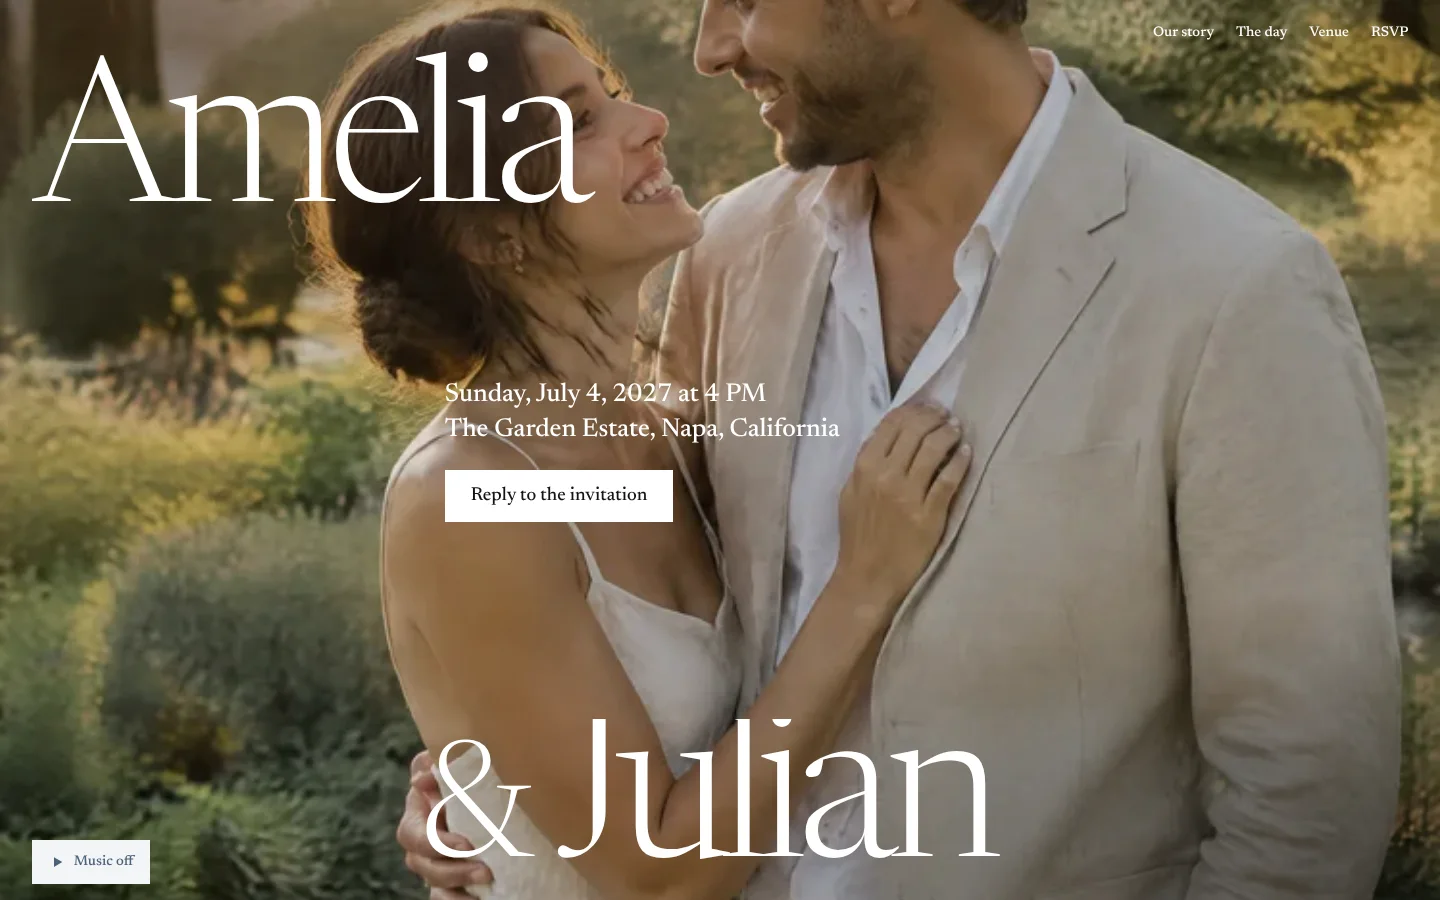
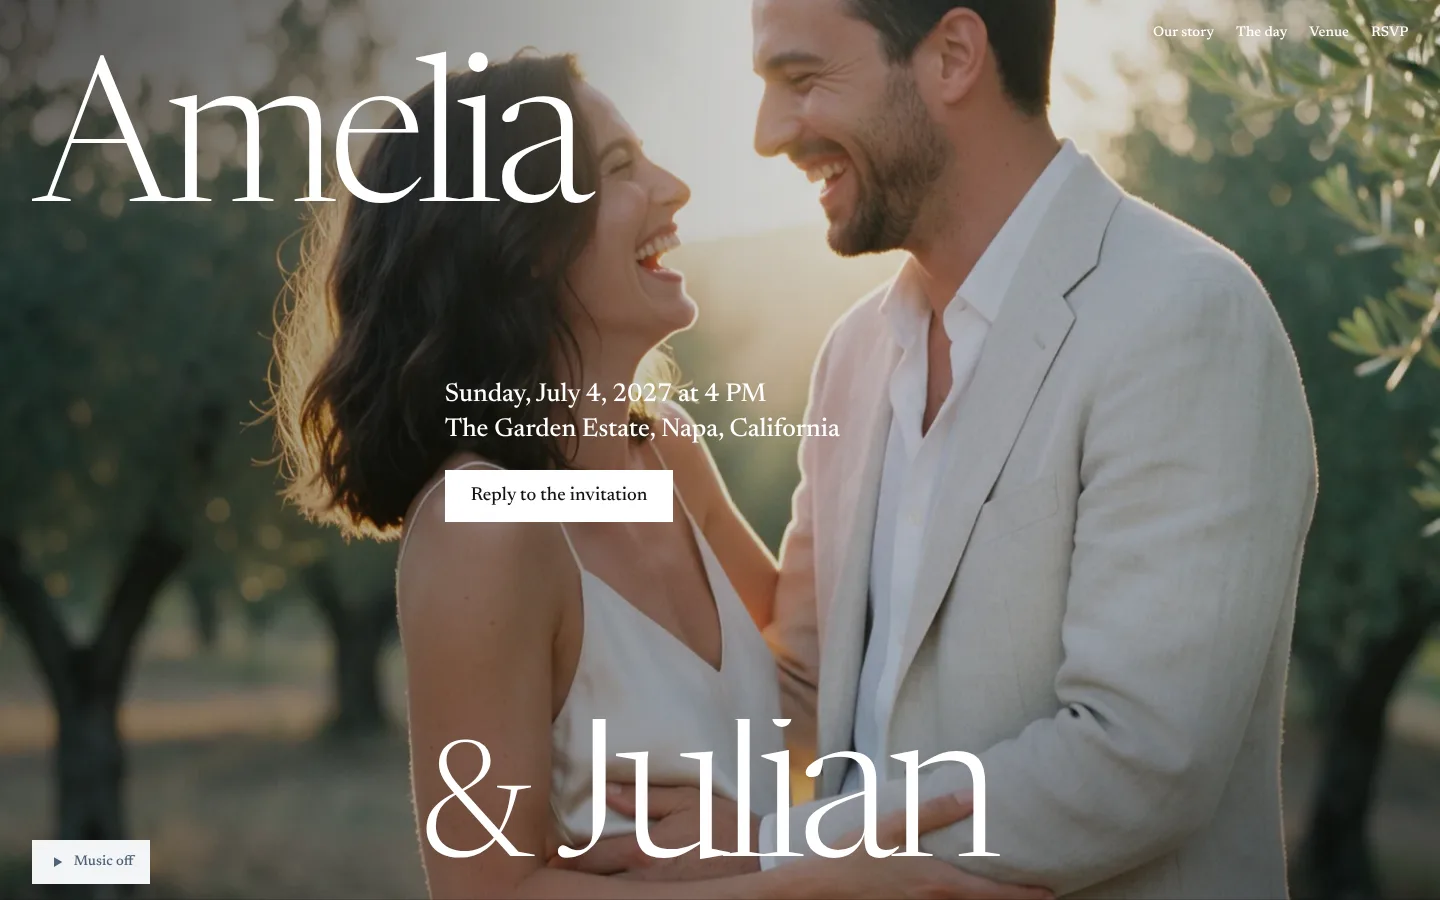
Seedream couple photos; fix story photos sliding over text on phones
- Demo couple photos regenerated with Seedream 5 Pro (2K, high), one couple
  across all five shots; landing fragments recaptured with them.
- The landing's @keyframes drift (translate -50%) overrode the invitation's
  photo drift of the same name, shoving story photos onto their captions.
  Keyframes are now prefixed (site-*, iv-*) and portraits clip to their box.

Claude-Session: https://claude.ai/code/session_016MinLwkREeyjyFu6AUwBRi

diff --git a/styles/site.css b/styles/site.css
@@ -73,8 +73,8 @@
 .live-box img { width: 100%; height: 100%; display: block; }
 .live-initials { position: absolute; inset: 0; width: 100%; height: 100%; overflow: visible; }
 .live-initials text { font-family: inherit; font-weight: 600; font-size: 50px; fill: #3c5a3a; mix-blend-mode: multiply; }
-@media (prefers-reduced-motion: no-preference) { .live-box { animation: drift 24s ease-in-out infinite alternate; } }
-@keyframes drift { from { transform: translate(-50%, -50%) scale(1); } to { transform: translate(-50%, -50%) scale(1.04); } }
+@media (prefers-reduced-motion: no-preference) { .live-box { animation: site-drift 24s ease-in-out infinite alternate; } }
+@keyframes site-drift { from { transform: translate(-50%, -50%) scale(1); } to { transform: translate(-50%, -50%) scale(1.04); } }
 .live-card {
   position: relative; z-index: 1; grid-column: 2; min-height: 52svh; padding: 28px 24px 24px;
   background: var(--ink); color: var(--accent-ink); display: flex; flex-direction: column; gap: 16px;
@@ -124,8 +124,8 @@
 .band-track { display: flex; white-space: nowrap; font-size: 8vw; font-weight: 600; letter-spacing: -0.02em; line-height: 1.1; }
 .band-item { display: inline-flex; align-items: center; }
 .band-dot { display: inline-block; width: 0.22em; height: 0.22em; border-radius: 50%; background: currentColor; margin: 0 0.4em; }
-@media (prefers-reduced-motion: no-preference) { .band-track { animation: marquee 40s linear infinite; } }
-@keyframes marquee { from { transform: translateX(0); } to { transform: translateX(-50%); } }
+@media (prefers-reduced-motion: no-preference) { .band-track { animation: site-marquee 40s linear infinite; } }
+@keyframes site-marquee { from { transform: translateX(0); } to { transform: translateX(-50%); } }
 .band-note { padding: 32px var(--m) 0; max-width: calc(52ch + 2 * var(--m)); font-size: var(--t-lead); line-height: 1.35; }
 @media (max-width: 699px) { .band { height: 22vh; } .band-track { font-size: 15vw; } }
 
@@ -176,8 +176,8 @@
 .faq-q[aria-selected="true"] .dot { background: var(--accent); }
 .faq-inline { display: none; }
 .faq-pane { grid-column: 8 / 13; position: sticky; top: 120px; align-self: start; padding-top: calc(var(--t-head) + 28px); }
-.faq-a { font-size: var(--t-sub); line-height: 1.25; max-width: 26ch; animation: fadein 150ms ease; }
-@keyframes fadein { from { opacity: 0; } to { opacity: 1; } }
+.faq-a { font-size: var(--t-sub); line-height: 1.25; max-width: 26ch; animation: site-fadein 150ms ease; }
+@keyframes site-fadein { from { opacity: 0; } to { opacity: 1; } }
 @media (max-width: 699px) {
   .qa { padding: 96px var(--m); }
   .faq { display: block; }
@@ -215,8 +215,8 @@
   .js .site [data-reveal] { opacity: 0; transform: translateY(24px); transition: opacity 700ms var(--ease-out), transform 900ms var(--ease-expo); }
   .js .site [data-reveal].is-in { opacity: 1; transform: none; }
   .js .site .live-card[data-reveal] { transition-delay: 80ms; }
-  .h-title { animation: title-in 900ms var(--ease-expo) both 100ms; }
-  .h-lead, .site .h-btn { animation: rise 500ms var(--ease-out) both 420ms; }
+  .h-title { animation: site-title-in 900ms var(--ease-expo) both 100ms; }
+  .h-lead, .site .h-btn { animation: site-rise 500ms var(--ease-out) both 420ms; }
 }
-@keyframes title-in { from { opacity: 0; transform: translateY(0.25em); } to { opacity: 1; transform: none; } }
-@keyframes rise { from { opacity: 0; transform: translateY(12px); } to { opacity: 1; transform: none; } }
+@keyframes site-title-in { from { opacity: 0; transform: translateY(0.25em); } to { opacity: 1; transform: none; } }
+@keyframes site-rise { from { opacity: 0; transform: translateY(12px); } to { opacity: 1; transform: none; } }

diff --git a/styles/invite.css b/styles/invite.css
@@ -139,7 +139,8 @@ section, .iv-foot { position: relative; }
   background:
     radial-gradient(70% 45% at 0% 0%, rgba(0,0,0,.46), transparent 70%), /* taste-skill-ignore: neutral scrim under text on a photo */
     radial-gradient(75% 50% at 100% 100%, rgba(0,0,0,.5), transparent 70%), /* taste-skill-ignore: neutral scrim under text on a photo */
-    linear-gradient(rgba(0,0,0,.12), rgba(0,0,0,.12)); /* taste-skill-ignore: neutral scrim under text on a photo */
+    linear-gradient(90deg, rgba(0,0,0,.42), transparent 66%), /* taste-skill-ignore: neutral scrim under the date and venue line */
+    linear-gradient(rgba(0,0,0,.14), rgba(0,0,0,.14)); /* taste-skill-ignore: neutral scrim under text on a photo */
 }
 .iv-hero-floral { position: absolute; z-index: 0; right: -6vw; top: 18svh; width: min(64vw, 760px); pointer-events: none; }
 .iv-nav { position: absolute; z-index: 4; top: 22px; right: var(--m); display: flex; gap: 22px; font-size: var(--step-small); font-weight: 500; }
@@ -176,7 +177,7 @@ section, .iv-foot { position: relative; }
 .iv-story-pin { position: sticky; top: 14vh; align-self: start; }
 .iv-story-title { font-size: var(--step-big); line-height: 0.88; text-wrap: balance; max-width: 8ch; }
 .iv-story-run { display: flex; flex-direction: column; gap: 18vh; }
-.iv-portrait { width: 62%; }
+.iv-portrait { width: 62%; overflow: clip; }
 .iv-portrait.r { align-self: flex-end; }
 .iv-portrait img { width: 100%; aspect-ratio: 4 / 5; object-fit: cover; display: block; }
 .iv-portrait figcaption { margin-top: 16px; max-width: 34ch; }
@@ -334,12 +335,12 @@ details[open] .chev { transform: rotate(-135deg) translateY(-3px); }
 }
 @supports (animation-timeline: view()) {
   @media (prefers-reduced-motion: no-preference) {
-    .iv-portrait img { animation: drift linear both; animation-timeline: view(); animation-range: entry 0% exit 100%; }
+    .iv-portrait img { animation: iv-drift linear both; animation-timeline: view(); animation-range: entry 0% exit 100%; }
   }
 }
 @keyframes line-up { from { transform: translateY(105%); } to { transform: none; } }
 @keyframes settle { from { transform: scale(1.08); } to { transform: none; } }
-@keyframes drift { from { transform: scale(1.06) translateY(-2%); } to { transform: scale(1.06) translateY(2%); } }
+@keyframes iv-drift { from { object-position: 50% 25%; } to { object-position: 50% 75%; } }
 @media (prefers-reduced-motion: reduce) {
   .env, .env-names, .env-date, .env-cta { animation: none !important; }
   .iv-names [data-line] { transform: none !important; animation: none !important; }
